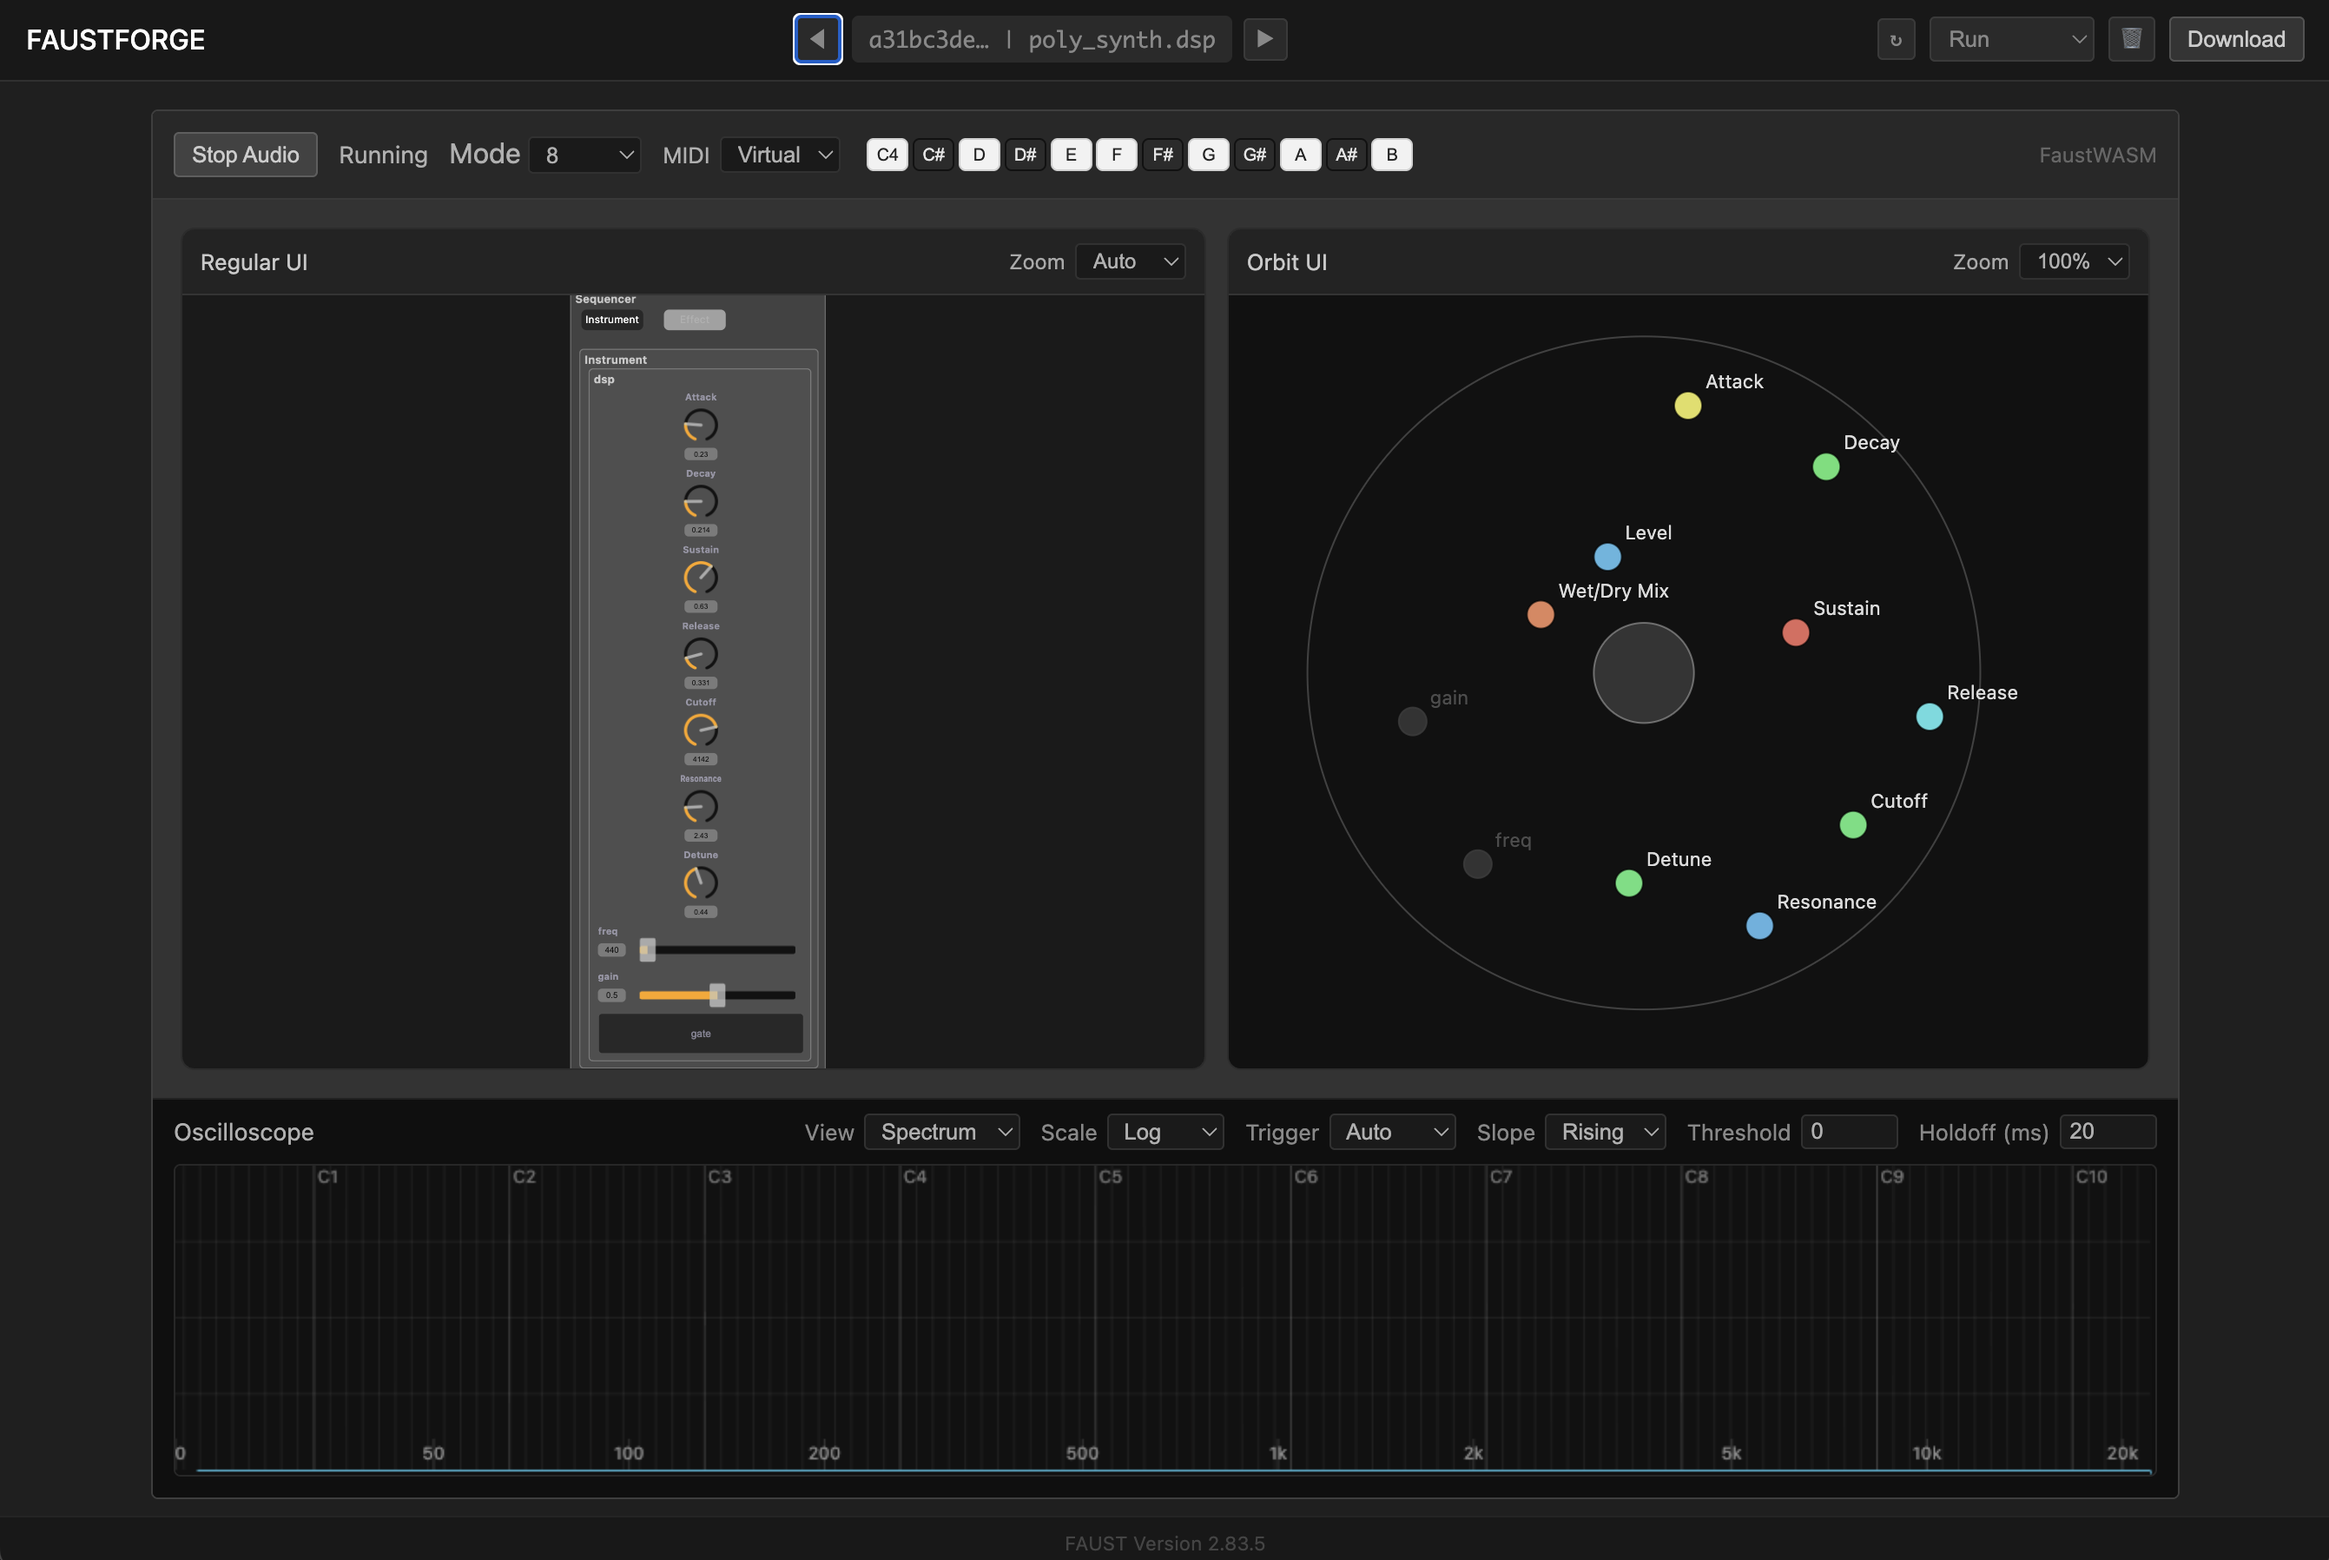
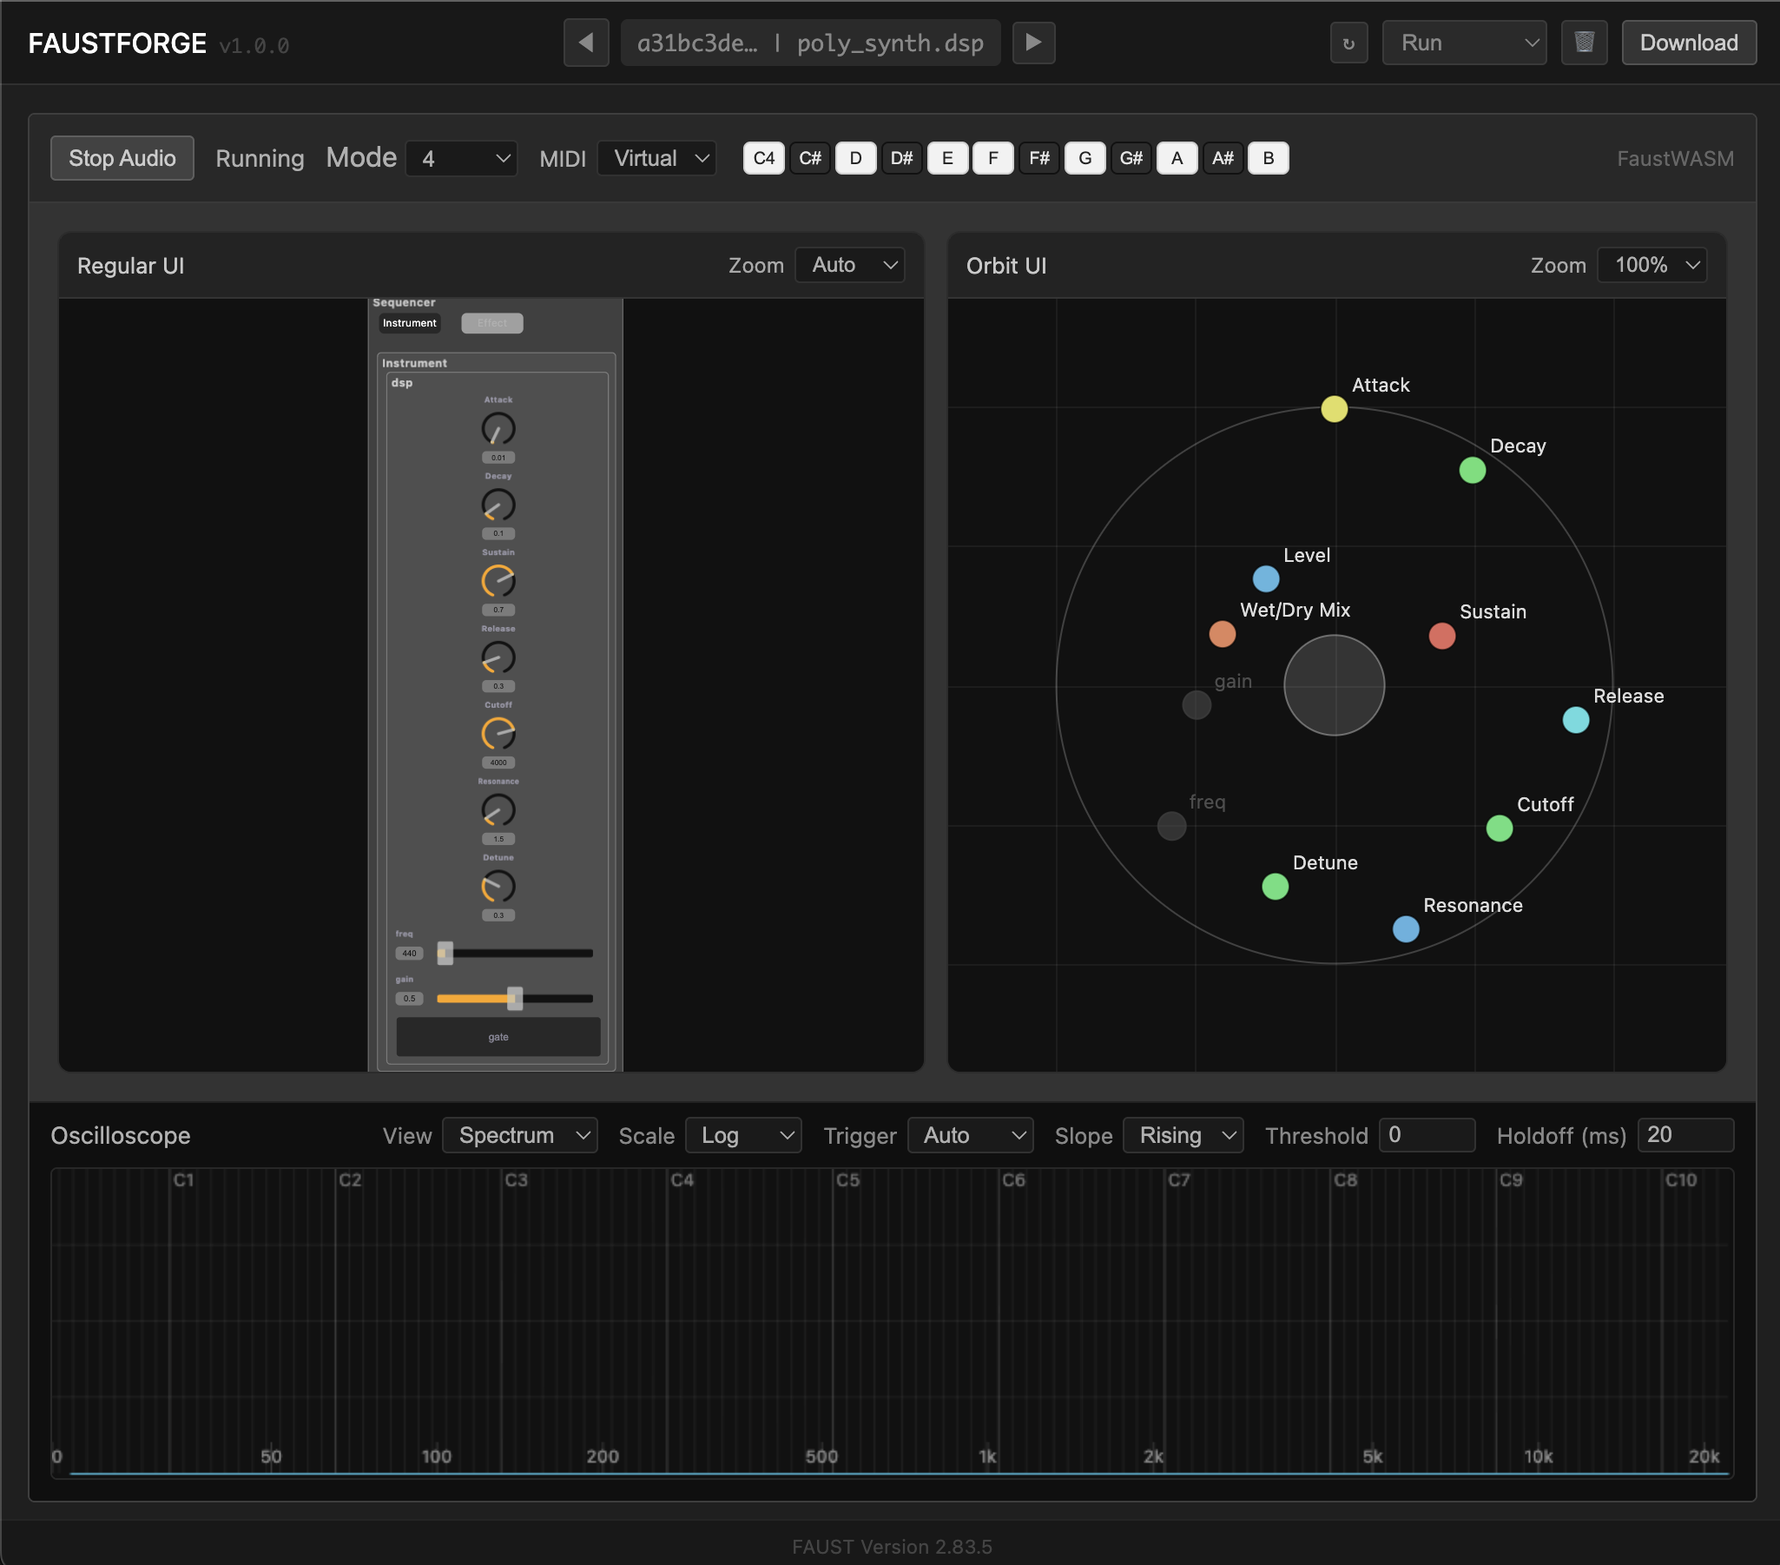
Run UI: add Orbit disabled sliders, outer-radius drag, keyboard MIDI, and app version badge

diff --git a/public/views/run.js b/public/views/run.js
@@ -1210,9 +1210,13 @@ function initOrbitState(sliders, persisted) {
         : defaultOuter,
     sliders,
     positions: {},
-    disabledPaths: new Set()
+    disabledPaths: new Set(),
+    initialOuterRadius: 0,
+    gridOrigin: { x: 0, y: 0 }
   };
   ensureOrbitRadii();
+  orbitState.initialOuterRadius = orbitState.outerRadius;
+  orbitState.gridOrigin = { x: orbitState.center.x, y: orbitState.center.y };
 
   const persistedPositions =
     persisted && persisted.positions && typeof persisted.positions === 'object'
@@ -1244,9 +1248,13 @@ function initOrbitState(sliders, persisted) {
       return;
     }
     const angle = (index / count) * Math.PI * 2 - Math.PI / 2;
+    const raw = paramValues[slider.path];
+    const current = Number.isFinite(raw) ? raw : slider.min;
+    const u = clamp((current - slider.min) / (slider.max - slider.min), 0, 1);
+    const distance = distanceFromNormalized(u);
     orbitState.positions[slider.path] = {
-      x: orbitState.center.x + Math.cos(angle) * orbitState.outerRadius,
-      y: orbitState.center.y + Math.sin(angle) * orbitState.outerRadius
+      x: orbitState.center.x + Math.cos(angle) * distance,
+      y: orbitState.center.y + Math.sin(angle) * distance
     };
   });
   constrainOrbitPositions();
@@ -1547,6 +1555,36 @@ function drawOrbitNow() {
   ctx.clearRect(0, 0, width, height);
   ctx.fillStyle = '#111';
   ctx.fillRect(0, 0, width, height);
+
+  // Discrete centered grid to suggest draggable 2D space.
+  const gridStep = Math.max(8, (orbitState.initialOuterRadius || orbitState.outerRadius) / 2);
+  const gridOrigin = orbitState.gridOrigin || orbitState.center;
+  ctx.strokeStyle = 'rgba(255,255,255,0.05)';
+  ctx.lineWidth = 1;
+  for (let x = gridOrigin.x; x <= width; x += gridStep) {
+    ctx.beginPath();
+    ctx.moveTo(Math.round(x) + 0.5, 0);
+    ctx.lineTo(Math.round(x) + 0.5, height);
+    ctx.stroke();
+  }
+  for (let x = gridOrigin.x - gridStep; x >= 0; x -= gridStep) {
+    ctx.beginPath();
+    ctx.moveTo(Math.round(x) + 0.5, 0);
+    ctx.lineTo(Math.round(x) + 0.5, height);
+    ctx.stroke();
+  }
+  for (let y = gridOrigin.y; y <= height; y += gridStep) {
+    ctx.beginPath();
+    ctx.moveTo(0, Math.round(y) + 0.5);
+    ctx.lineTo(width, Math.round(y) + 0.5);
+    ctx.stroke();
+  }
+  for (let y = gridOrigin.y - gridStep; y >= 0; y -= gridStep) {
+    ctx.beginPath();
+    ctx.moveTo(0, Math.round(y) + 0.5);
+    ctx.lineTo(width, Math.round(y) + 0.5);
+    ctx.stroke();
+  }
 
   // Outer circle = min zone frontier.
   ctx.strokeStyle = 'rgba(255,255,255,0.2)';

diff --git a/src/routes/api.ts b/src/routes/api.ts
@@ -15,6 +15,7 @@ import {
 export function createApiRouter(sessionManager: SessionManager, stateStore: StateStore): Router {
   const router = Router();
   const sessionsBaseDir = process.env.SESSIONS_DIR || '/app/sessions';
+  const appVersion = readAppVersion();
 
   function clearSessionArtifacts(sessionPath: string): void {
     const targets = ['generated.cpp', 'signals.dot', 'tasks.dot', 'svg', 'wasm', 'webapp'];
@@ -192,6 +193,15 @@ export function createApiRouter(sessionManager: SessionManager, stateStore: Stat
     } catch {
       res.json({ version: 'Faust version unknown' });
     }
+  });
+
+  /**
+   * GET /app-version
+   * Récupère la version de faustforge (package.json)
+   * Response: { version: string }
+   */
+  router.get('/app-version', (_req: Request, res: Response) => {
+    res.json({ version: appVersion });
   });
 
   /**
@@ -893,4 +903,18 @@ export function createApiRouter(sessionManager: SessionManager, stateStore: Stat
 
 function osTmpFallback(): string {
   return '/tmp';
+}
+
+function readAppVersion(): string {
+  try {
+    const pkgPath = path.resolve(process.cwd(), 'package.json');
+    const raw = fs.readFileSync(pkgPath, 'utf8');
+    const pkg = JSON.parse(raw);
+    if (pkg && typeof pkg.version === 'string' && pkg.version.trim()) {
+      return pkg.version.trim();
+    }
+  } catch {
+    // ignore and fallback
+  }
+  return '1.0.0';
 }

diff --git a/public/style.css b/public/style.css
@@ -37,6 +37,19 @@ header h1 {
   white-space: nowrap;
 }
 
+.header-brand {
+  display: flex;
+  align-items: baseline;
+  gap: 0.45rem;
+  white-space: nowrap;
+}
+
+#header-app-version {
+  font-size: 0.7rem;
+  color: #444;
+  font-family: 'SF Mono', 'Monaco', 'Consolas', monospace;
+}
+
 .header-nav {
   display: flex;
   align-items: center;
@@ -399,21 +412,22 @@ footer {
 
 .audio-gate-card {
   width: min(520px, 100%);
-  background: #1b1b1b;
-  border: 1px solid rgba(255, 255, 255, 0.12);
+  background: rgba(26, 68, 43, 0.72);
+  border: 1px solid rgba(110, 215, 155, 0.35);
   border-radius: 8px;
   padding: 1.1rem 1rem;
   text-align: center;
+  box-shadow: 0 10px 30px rgba(0, 0, 0, 0.28);
 }
 
 .audio-gate-card h2 {
-  color: #f0f0f0;
+  color: #dffbe9;
   font-size: 1.05rem;
   margin-bottom: 0.45rem;
 }
 
 .audio-gate-card p {
-  color: #b8b8b8;
+  color: #bce7cd;
   font-size: 0.88rem;
   margin-bottom: 0.8rem;
 }
@@ -1002,6 +1016,10 @@ footer {
     font-size: 0.9rem;
   }
 
+  #header-app-version {
+    font-size: 0.65rem;
+  }
+
   .header-nav {
     order: 3;
     flex: 1 1 100%;
@@ -1135,6 +1153,7 @@ footer {
   flex: 1;
   min-height: 0;
   overflow: auto;
+  background: #111;
 }
 
 .orbit-canvas {

diff --git a/public/app.js b/public/app.js
@@ -41,6 +41,7 @@ const viewSelect = document.getElementById('view-select');
 const dropOverlay = document.getElementById('drop-overlay');
 const loadingOverlay = document.getElementById('loading-overlay');
 const footerVersion = document.getElementById('footer-version');
+const headerAppVersion = document.getElementById('header-app-version');
 const deleteSessionBtn = document.getElementById('delete-session');
 const refreshSessionBtn = document.getElementById('refresh-session');
 const audioGate = document.getElementById('audio-gate');
@@ -941,6 +942,19 @@ async function init() {
       const result = await response.json();
       if (response.ok && result.version) {
         footerVersion.textContent = result.version;
+      }
+    } catch {
+      // Ignorer si indisponible
+    }
+  }
+
+  // Charger la version de faustforge pour le bandeau
+  if (headerAppVersion) {
+    try {
+      const response = await fetch('/api/app-version');
+      const result = await response.json();
+      if (response.ok && result.version) {
+        headerAppVersion.textContent = `v${result.version}`;
       }
     } catch {
       // Ignorer si indisponible

diff --git a/public/index.html b/public/index.html
@@ -8,7 +8,10 @@
 </head>
 <body>
   <header>
-    <h1>FAUSTFORGE</h1>
+    <div class="header-brand">
+      <h1>FAUSTFORGE</h1>
+      <span id="header-app-version">v1.0.0</span>
+    </div>
     <div class="header-nav">
       <button id="session-prev" class="icon-btn" title="Previous session">◀</button>
       <div id="session-label">Empty</div>
